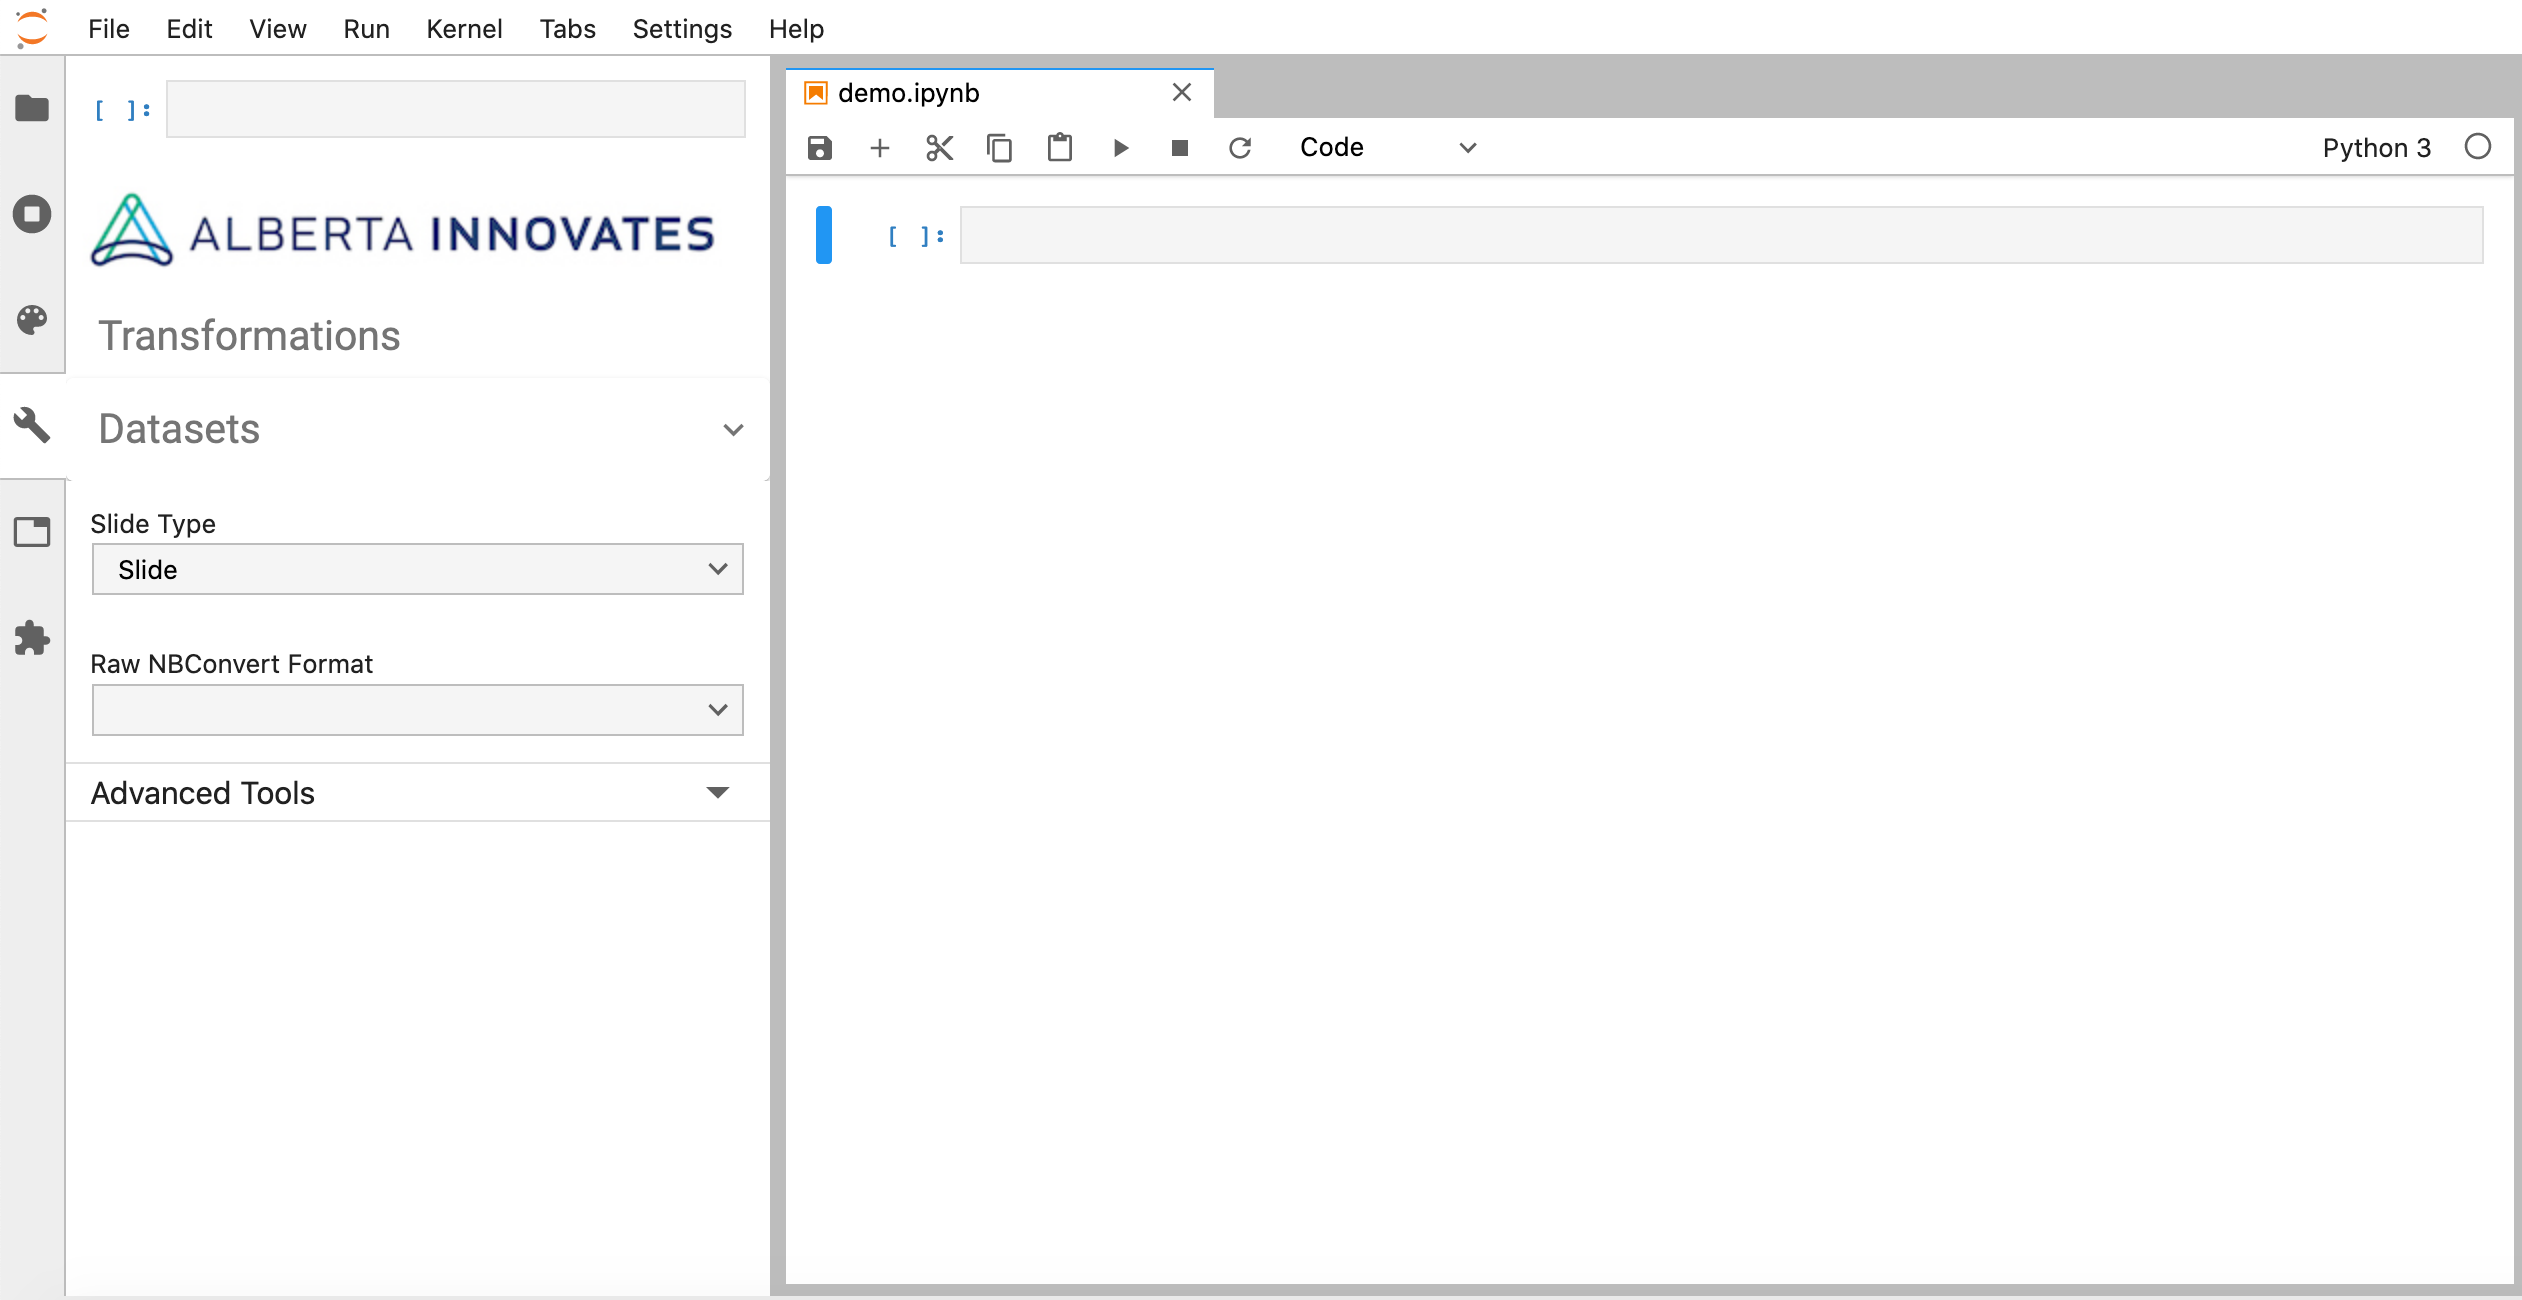
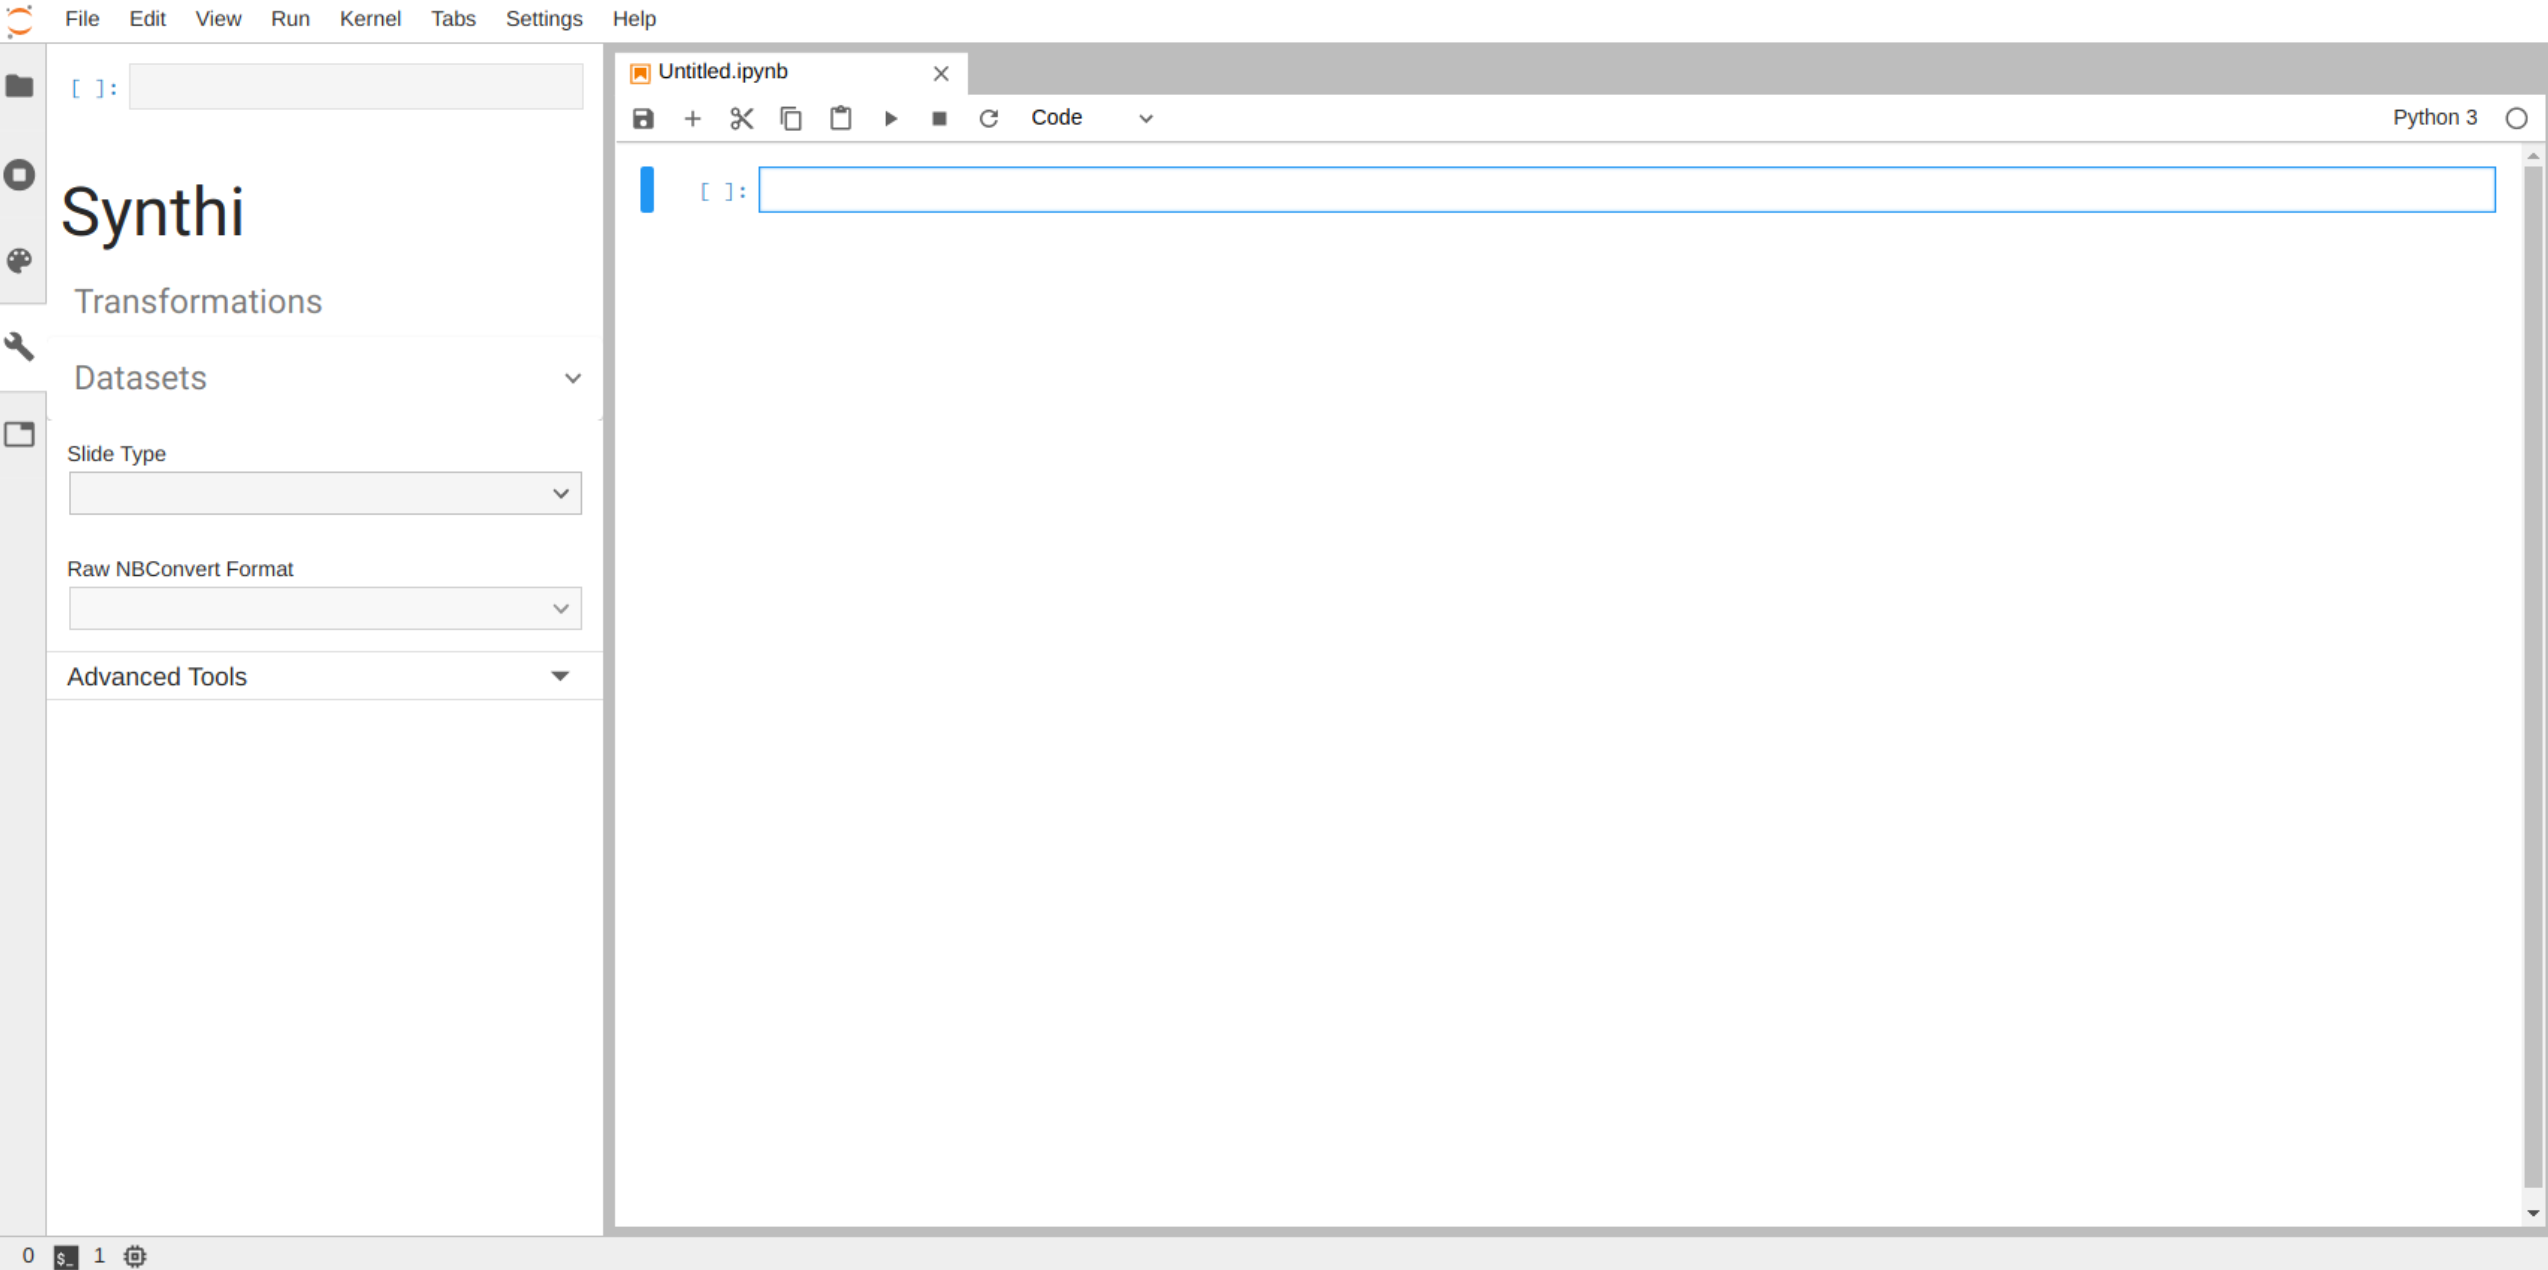
Adding in modified jupyterlab screenshots

diff --git a/manual/src/sections/JupyterLabAPI.md b/manual/src/sections/JupyterLabAPI.md
@@ -28,10 +28,12 @@
     os.environ['SYNTHI_API_KEY'] = your_api_key
   ```
 
-  ![connecting-to-synthi](../images/connecting-to-synthi.png)
-
   Now you can use the python-synthi package to connect to synthi and work with the datasets and organizations that are accessible to you there, in addition to having the full capabilities of JupyterLab. 
 
+  ```python
+  from synthi import Connection
+  client = Connection()
+  ```
 
   ### Transformation
 
